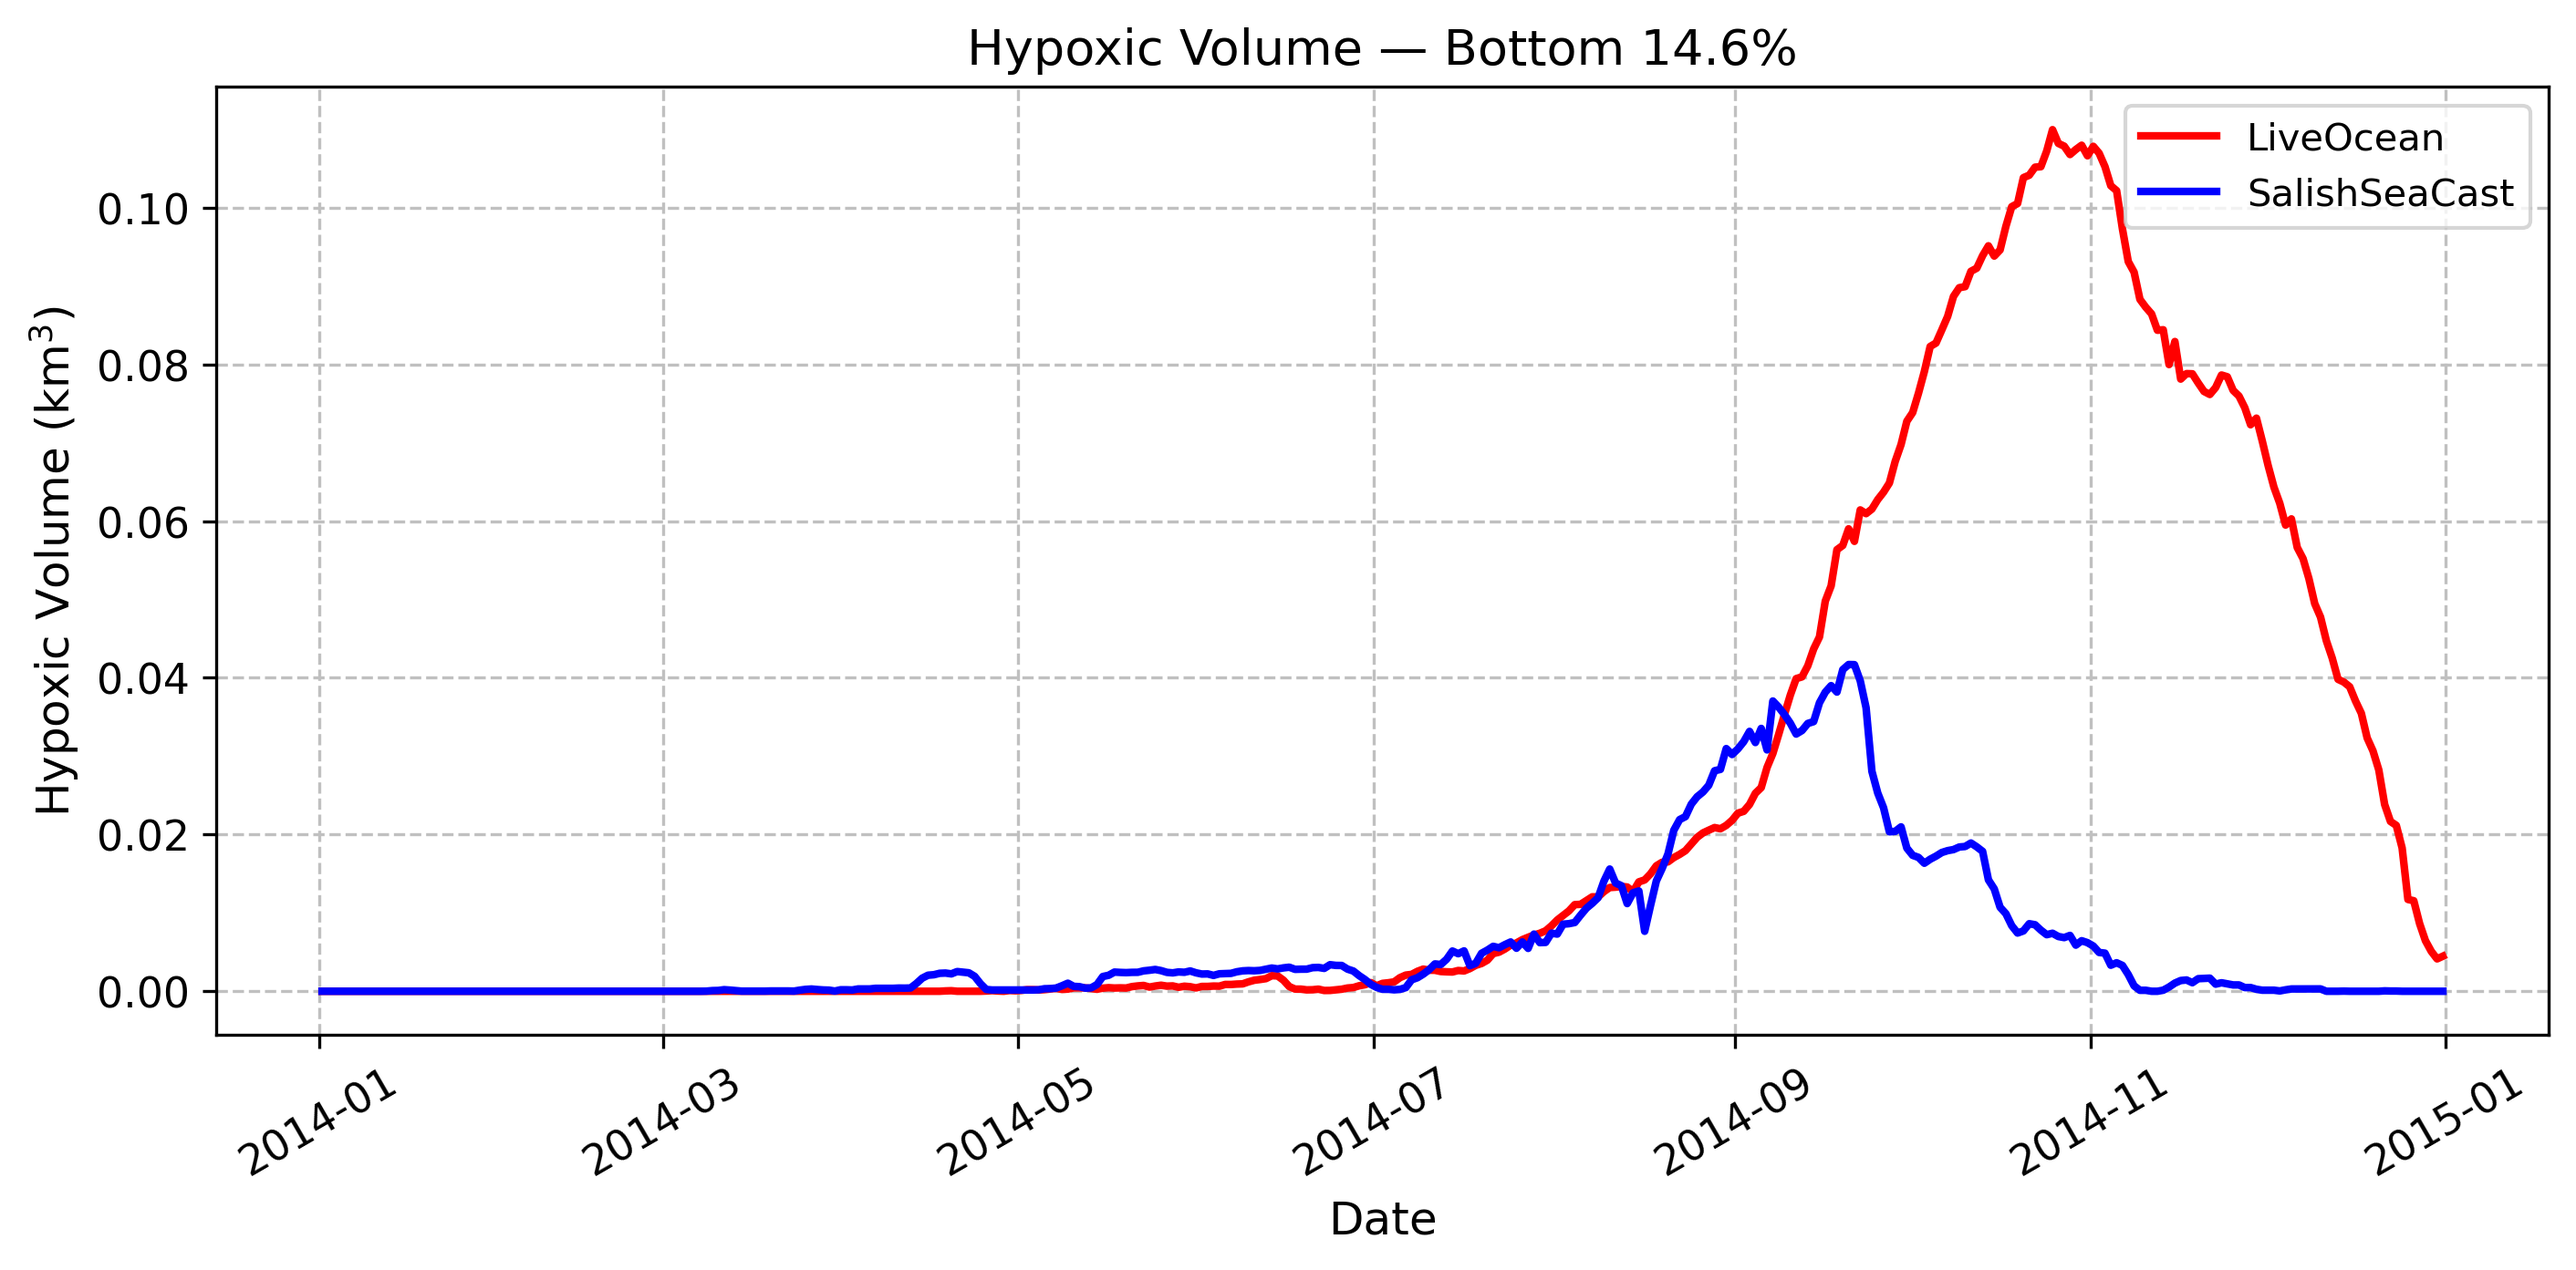
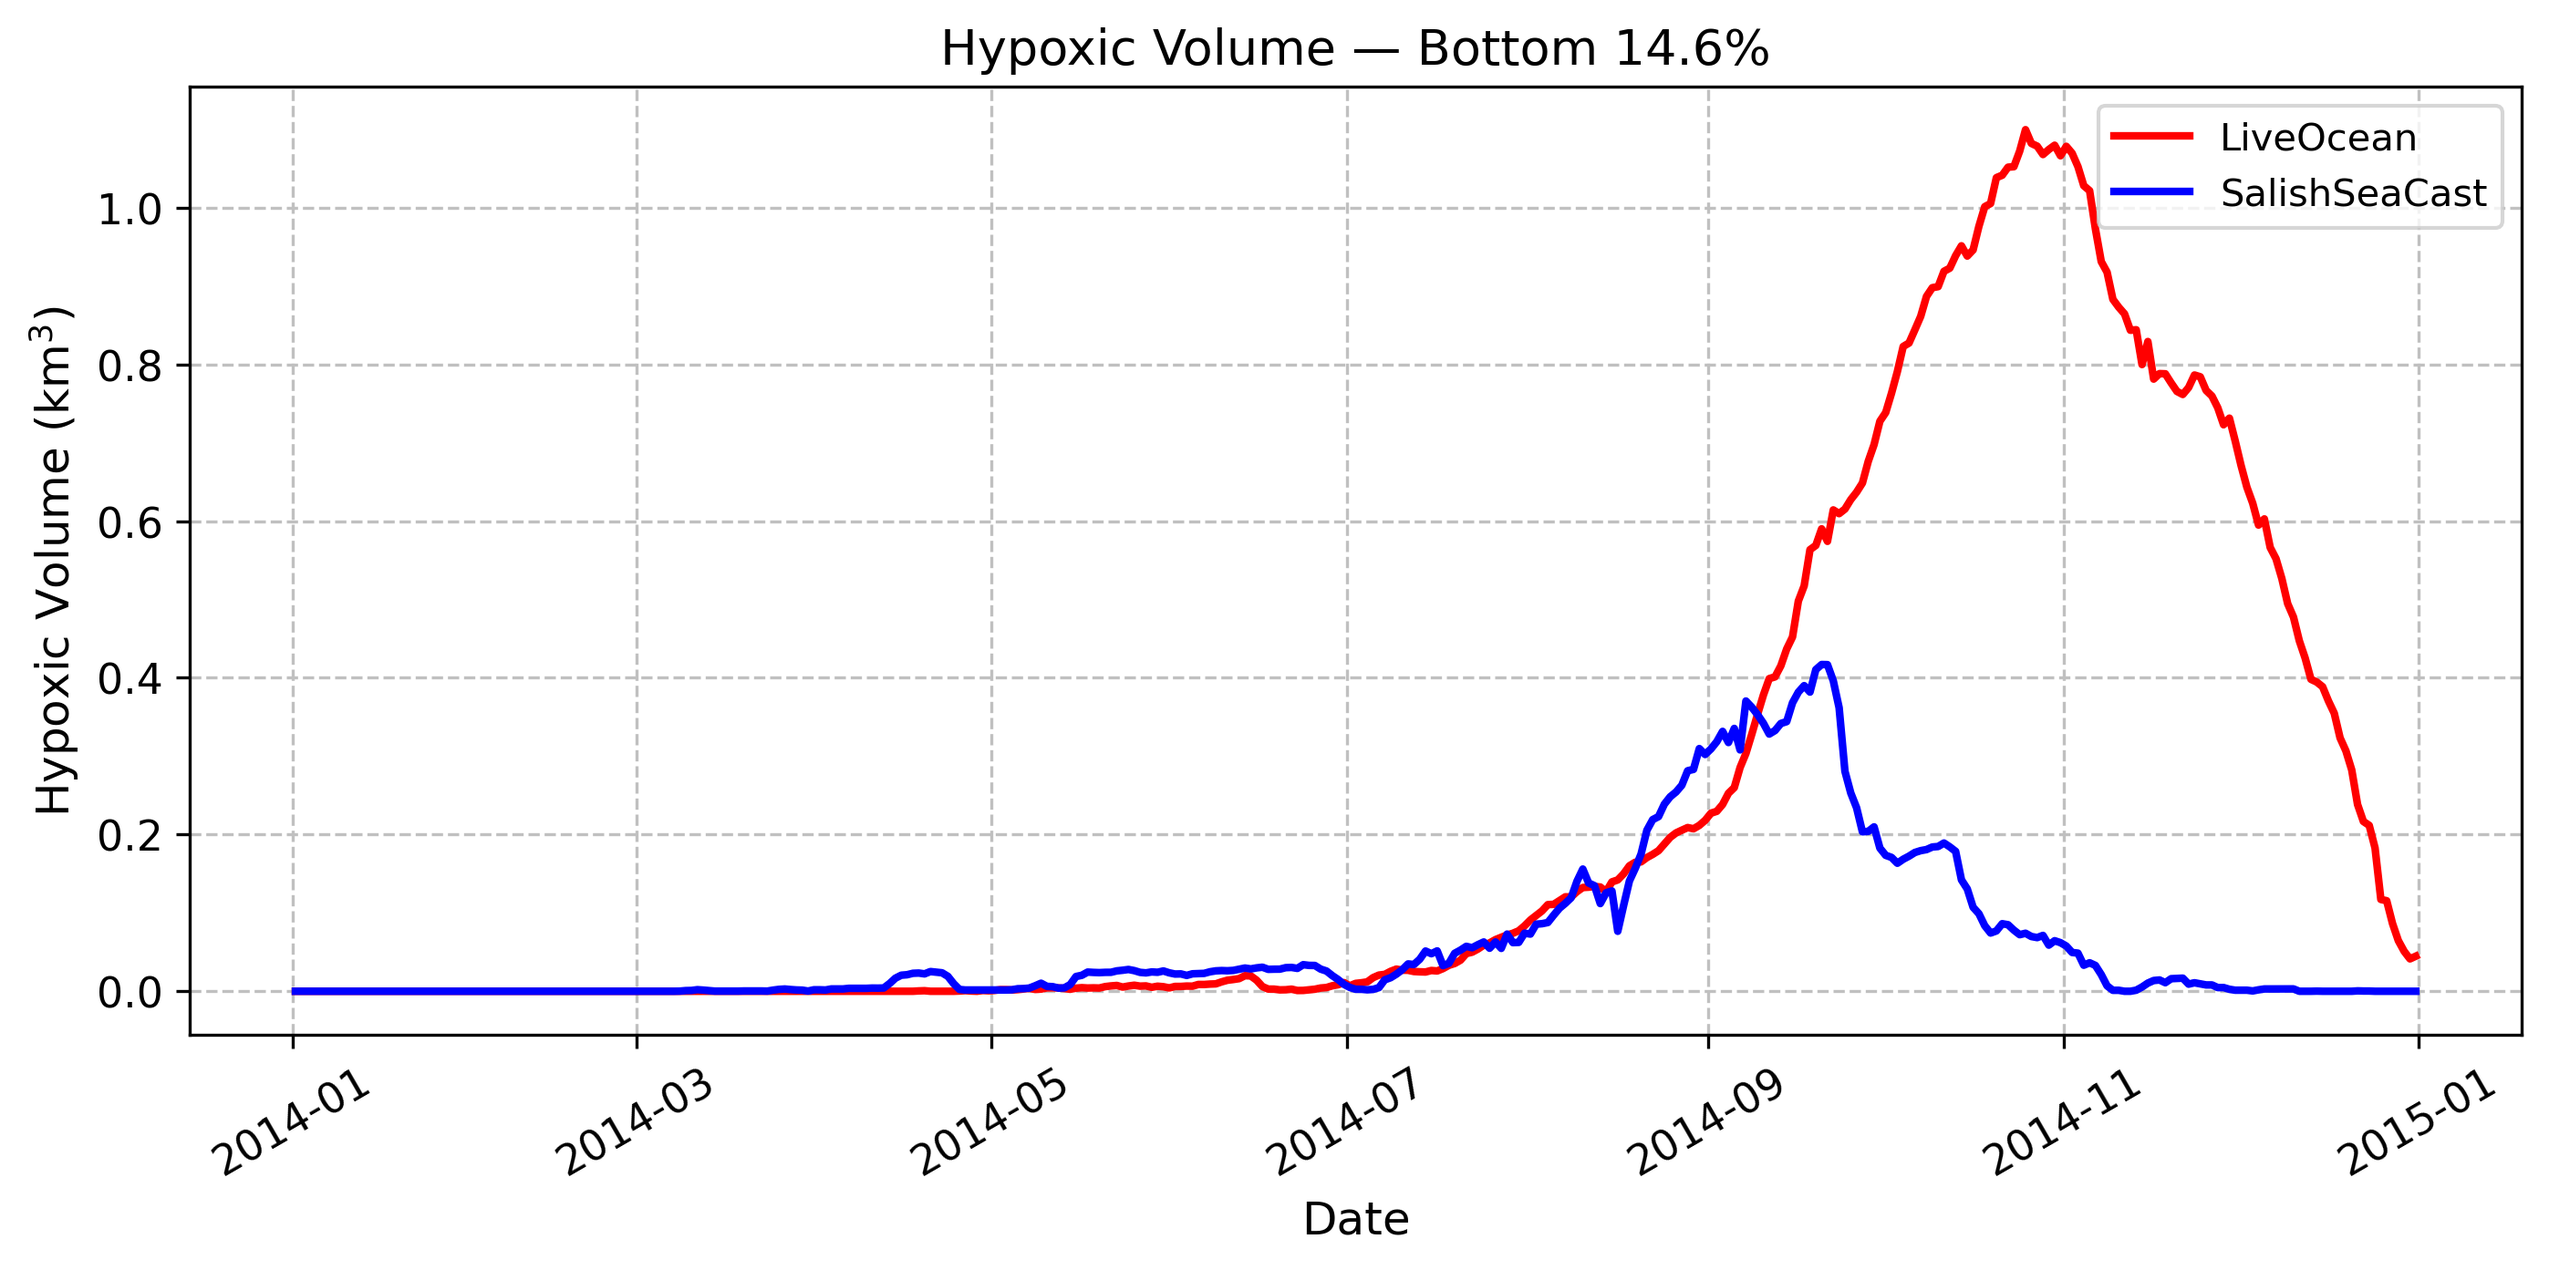
edit bottom_DO_plots.py to include hypoxic volume as a percent of total volume

diff --git a/intermodel_comparison/bottom_DO/bottom_DO_plots.py b/intermodel_comparison/bottom_DO/bottom_DO_plots.py
@@ -222,6 +222,34 @@ hyp_volume_SSC_ts = np.nansum(
     DA_SSC[None, :, :],
     axis=(1, 2)
 )/ 1e3 # convert m hyp thick to km --> km3
+
+# ============================================================
+# TOTAL WATER VOLUME
+# ============================================================
+
+# ------------------------------------------------------------
+# LIVE OCEAN
+# ------------------------------------------------------------
+
+depth_bot_LO = ds_LO['depth_bot'].values
+
+total_volume_LO = np.nansum(
+    depth_bot_LO * DA_ps
+) / 1e3   # m * km2 -> km3
+
+
+# ------------------------------------------------------------
+# SALISHSEACAST
+# ------------------------------------------------------------
+
+depth_bot_SSC = ds_SSC['depth_bot'].values
+
+total_volume_SSC = np.nansum(
+    depth_bot_SSC * DA_SSC
+) / 1e3   # m * km2 -> km3
+
+print(f'LiveOcean total volume: {total_volume_LO:.2f} km3')
+print(f'SalishSeaCast total volume: {total_volume_SSC:.2f} km3')
        
 # ============================================================
 # PLOT HYPOXIC AREA AND VOLUME TS
@@ -309,6 +337,81 @@ plt.savefig(
     dpi=300,
     bbox_inches='tight'
 )
+plt.show()
+
+# ============================================================
+# PLOT HYPOXIC VOLUME (% OF TOTAL VOLUME)
+# ============================================================
+
+hyp_volume_pct_LO = (
+    hyp_volume_LO_ts / total_volume_LO
+) * 100
+
+hyp_volume_pct_SSC = (
+    hyp_volume_SSC_ts / total_volume_SSC
+) * 100
+
+print('Plotting hypoxic volume as percent of total volume')
+
+fig, ax = plt.subplots(figsize=(11, 4.5))
+
+ax.plot(
+    pd.to_datetime(ds_LO['ocean_time'].values),
+    hyp_volume_pct_LO,
+    linewidth=2,
+    color='red',
+    label='LiveOcean'
+)
+
+ax.plot(
+    pd.to_datetime(ds_SSC['ocean_time'].values),
+    hyp_volume_pct_SSC,
+    linewidth=2,
+    color='blue',
+    label='SalishSeaCast'
+)
+
+ax.set_ylabel(
+    'Hypoxic Volume (% of Total Volume)',
+    fontsize=12
+)
+
+ax.set_xlabel('Date', fontsize=12)
+
+ax.grid(
+    visible=True,
+    axis='both',
+    color='silver',
+    linestyle='--'
+)
+
+ax.legend(loc='upper right')
+
+ax.xaxis.set_major_formatter(
+    mdates.DateFormatter('%Y-%m')
+)
+
+ax.tick_params(
+    axis='x',
+    rotation=30
+)
+
+ax.tick_params(
+    axis='both',
+    labelsize=11
+)
+
+ax.set_title(
+    'Hypoxic Volume — Bottom 14.6%',
+    fontsize=13
+)
+
+plt.savefig(
+    'hypoxic_volume_percent_comparison.png',
+    dpi=300,
+    bbox_inches='tight'
+)
+
 plt.show()
 
 # ============================================================
